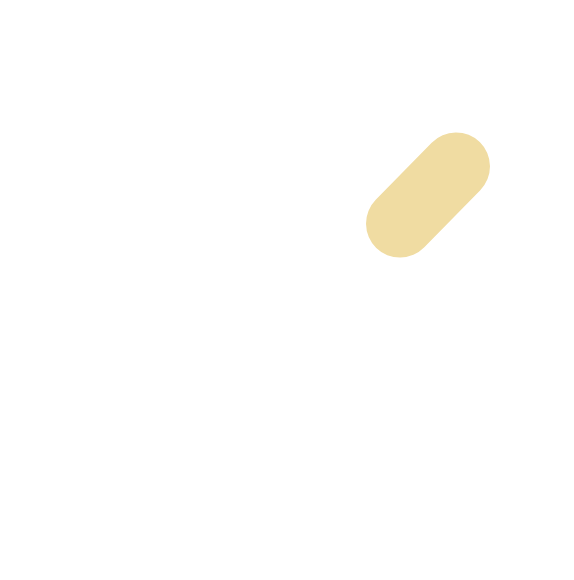
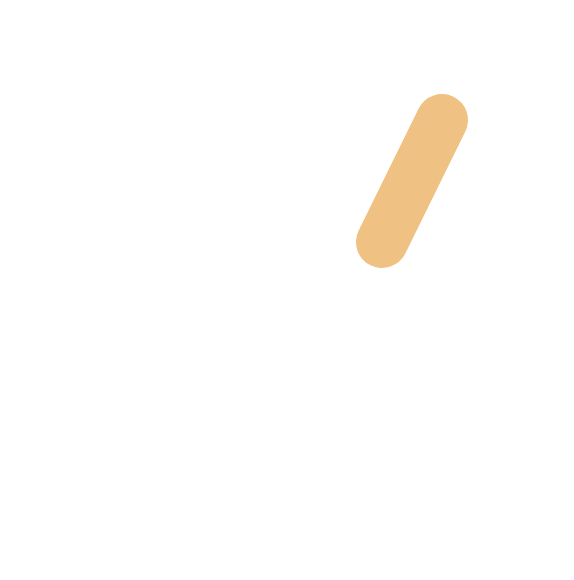
Инструкция по развёртыванию на Beget и слои питомца ближе к фотографиям
Добавлен DEPLOY-BEGET.md: в репозитории три разные вещи, и разворачиваются
они по-разному. CRM — статика, собирается локально и заливается папкой.
Place — PHP с SQLite, работает на виртуальном хостинге. Сервис выгрузки
Qtickets на Beget не поднимется в принципе: это Docker-контейнер с
постоянным процессом, а не короткий PHP-запрос, и это ограничение тарифа,
а не вопрос настройки.

Отдельно разобран самый частый способ получить белый экран: без VITE_BASE
проект собирается с префиксом /dabudi/ под GitHub Pages, и на своём домене
все ассеты уезжают по несуществующему адресу. Оба варианта размещения
проверены сборкой, пути в готовом index.html сверены.

Слои питомца перерисованы ближе к фотографиям игрушки: висячие уши,
крупные тёмно-коричневые глаза с бликом, светлая морда без резкого белого
пятна, белый кружевной воротник на шее, кремовое туловище и лапки.
Опорные точки не менялись, поэтому риг и углы поз остались прежними.
Слои по-прежнему временные — настоящие вырезки кладутся поверх.

Claude-Session: https://claude.ai/code/session_01MLzbLua3G2rsxTLjAo4L2R

Changed region(s): [[0.622, 0.1552, 0.8589, 0.4655]]

diff --git a/DEPLOY-BEGET.md b/DEPLOY-BEGET.md
@@ -1,0 +1,243 @@
+# Развёртывание на Beget — от нуля до работающего сайта
+
+В репозитории лежат **два независимых приложения** и **один сервис**. Разворачивать
+их надо по-разному, и одно из трёх на Beget вообще не поднимется. Сначала
+определитесь, что именно вам нужно.
+
+| Что | Где в репозитории | Что нужно серверу | Beget |
+|---|---|---|---|
+| **Репетитор — CRM** (PWA для телефона) | `src/`, собирается в `dist/` | ничего, чистая статика | да |
+| **Place** (рабочие проекты, вход по логину) | `place/` | PHP 7.4+ с `pdo_sqlite` и `curl` | да |
+| **Qtickets → Google Sheets** | `place/integrations/qtickets/` | Docker, постоянный процесс | **нет** |
+
+Про Qtickets — отдельно в самом конце: на виртуальном хостинге он не работает
+в принципе, и это не настройка, а ограничение тарифа.
+
+---
+
+## Шаг 0. Что понадобится
+
+1. Beget, тариф «Виртуальный хостинг» (подойдёт младший).
+2. В панели у сайта выбрана версия **PHP 8.x**.
+3. Node.js 18+ **на вашем компьютере** — CRM собирается локально, на хостинг
+   уезжает уже готовая папка. На Beget ничего собирать не нужно.
+
+Проверить расширения PHP можно позже через самодиагностику Place (шаг 3).
+
+---
+
+## Шаг 1. Решите, что где лежит
+
+Один домен — одна корневая папка `public_html`. Варианта два.
+
+**Вариант А (рекомендую): Place в корне, CRM в подпапке.**
+
+```
+public_html/
+├── index.html          ← Place
+├── api.php
+├── config.php
+├── cron_wordstat.php
+├── cron_backup.php
+└── crm/                ← Репетитор — CRM
+    ├── index.html
+    ├── assets/
+    └── ...
+```
+
+Адреса: `https://ваш-сайт/` — Place, `https://ваш-сайт/crm/` — CRM.
+
+**Вариант Б: CRM в корне, Place в подпапке.**
+
+```
+public_html/
+├── index.html          ← CRM
+├── assets/
+└── place/              ← Place
+    ├── index.html
+    ├── api.php
+    └── ...
+```
+
+Адреса: `https://ваш-сайт/` — CRM, `https://ваш-сайт/place/` — Place.
+
+Дальше в примерах используется **вариант А**. Для варианта Б поменяйте только
+путь сборки на шаге 2 и папку загрузки Place.
+
+---
+
+## Шаг 2. Собрать CRM у себя на компьютере
+
+Ключевой момент: **обязательно задайте `VITE_BASE`**. По умолчанию проект
+собирается под GitHub Pages с префиксом `/dabudi/`, и на вашем домене все стили
+и скрипты будут искаться по несуществующему адресу — получите белый экран.
+
+```bash
+npm install
+
+# Вариант А — CRM лежит в подпапке /crm/:
+VITE_BASE=/crm/ npm run build
+
+# Вариант Б — CRM в корне домена:
+VITE_BASE=/ npm run build
+```
+
+Проверьте, что подставилось правильно:
+
+```bash
+grep -o 'src="[^"]*"' dist/index.html
+# должно быть /crm/assets/... или /assets/... — но не /dabudi/
+```
+
+Загружать нужно **содержимое папки `dist/`**, а не саму папку. То есть
+`dist/index.html` должен оказаться как `public_html/crm/index.html`.
+
+---
+
+## Шаг 3. Развернуть Place
+
+Подробная пошаговая инструкция со скриншотами панели — в
+[`place/install-beget.md`](place/install-beget.md). Здесь только суть.
+
+1. Загрузите в `public_html` пять файлов из папки `place/`:
+   `index.html`, `api.php`, `config.sample.php`, `cron_wordstat.php`, `cron_backup.php`.
+
+2. Скопируйте `config.sample.php` и переименуйте копию в **`config.php`**
+   (шаблон оставьте на месте). Правим всегда копию: сам шаблон лежит в открытом
+   репозитории, секретам там не место.
+
+3. Откройте `config.php` и заполните два обязательных поля:
+
+   ```php
+   define('INITIAL_ADMIN_PASS', 'ваш-пароль');          // минимум 6 символов
+   define('CRON_KEY', 'случайная-строка-от-20-символов'); // обязательно!
+   ```
+
+   Пока стоят заглушки, система намеренно не запустится, а задания по ссылке
+   и самодиагностика закрыты. Сгенерировать ключ: `openssl rand -hex 20`.
+
+4. Проверьте установку, подставив свой `CRON_KEY`:
+
+   ```
+   https://ваш-сайт/api.php?action=selftest&key=ВАШ_CRON_KEY
+   ```
+
+   Ждём `"итог": "ВСЁ ГОТОВО К РАБОТЕ ✓"`. Если какая-то строка `ok:false` — там
+   же написано, что чинить. Без ключа страница отвечает 403: она показывает пути
+   на сервере и число аккаунтов, открытой её оставлять нельзя.
+
+5. Войдите на `https://ваш-сайт/` под логином `admin` и паролем из шага 3.
+   Остальные аккаунты создаёте сами: меню профиля → «Пользователи».
+
+### Где живёт база
+
+Place сам создаст папку `place-data` **рядом с `public_html`**, то есть на уровень
+выше — из интернета она недоступна. Это правильное поведение, ничего делать не
+нужно. Если хостинг не даст туда писать, Place создаст папку внутри сайта и
+закроет её через `.htaccess` — селфтест об этом честно напишет.
+
+**Не удаляйте `place-data`** — там вся база.
+
+---
+
+## Шаг 4. HTTPS — обязательно
+
+Панель Beget → раздел **SSL** → бесплатный сертификат Let's Encrypt.
+
+Это не «желательно», а необходимое условие:
+
+- **CRM не установится на телефон** без HTTPS. Service worker, офлайн-режим и
+  иконка на экране «Домой» работают только на защищённом соединении.
+- Place без HTTPS передаёт пароли открытым текстом.
+
+После включения сертификата поставьте в панели редирект с `http://` на `https://`.
+
+---
+
+## Шаг 5. Два задания в CronTab (только для Place)
+
+Панель → **CronTab**. Тип задания «PHP-скрипт»:
+
+```
+03:10  /home/ВАШ_ЛОГИН/ПАПКА_САЙТА/public_html/cron_wordstat.php
+03:40  /home/ВАШ_ЛОГИН/ПАПКА_САЙТА/public_html/cron_backup.php
+```
+
+Точный путь виден в файловом менеджере в адресной строке.
+
+Если удобнее «по ссылке» (тип wget/URL) — ключ обязателен:
+
+```
+https://ваш-сайт/cron_wordstat.php?key=ВАШ_CRON_KEY
+https://ваш-сайт/cron_backup.php?key=ВАШ_CRON_KEY
+```
+
+Проверка: откройте ссылку бэкапа — в ответе `"ok":1`, а в `place-data/backups`
+появится файл `place-ДАТА.db`. Хранятся 30 последних копий.
+
+---
+
+## Шаг 6. Финальная проверка
+
+- [ ] `https://ваш-сайт/` открывает Place, вход работает
+- [ ] `https://ваш-сайт/crm/` открывает CRM, видны демо-ученики
+- [ ] Замок в адресной строке, `http://` редиректит на `https://`
+- [ ] `api.php?action=selftest&key=...` → «ВСЁ ГОТОВО К РАБОТЕ ✓»
+- [ ] На iPhone: Safari → «Поделиться» → «На экран „Домой“» ставит иконку CRM
+- [ ] Ссылка cron с ключом отвечает `"ok":1`
+
+---
+
+## Подводные камни
+
+**Белый экран у CRM.** В 9 случаях из 10 забыли `VITE_BASE` при сборке. Откройте
+консоль браузера: если запросы уходят на `/dabudi/assets/...` — пересоберите с
+правильным префиксом.
+
+**CRM показывает старую версию после обновления.** Виноват service worker: он
+кэширует приложение для офлайна. Пользователю нужно закрыть все вкладки сайта и
+открыть заново; на iPhone — удалить иконку с экрана «Домой» и добавить снова.
+Само обновление приезжает автоматически, но со следующего запуска.
+
+**Данные CRM живут в браузере.** Это не ошибка, а устройство приложения:
+ученики, занятия и оплаты хранятся в `localStorage` телефона и на сервер не
+уходят. Отсюда два следствия: на другом устройстве будет пусто, и при очистке
+данных браузера всё пропадёт. Резервная копия — «Настройки → Экспорт» в самом
+приложении. Добавление на экран «Домой» на iOS дополнительно защищает хранилище
+от автоочистки.
+
+**Место на диске.** Place хранит базу и до 30 бэкапов. При активной работе с
+картинками база растёт; следите за квотой тарифа.
+
+**Кириллица в путях.** Не создавайте папки с русскими именами — часть утилит
+Beget и PHP-функций работы с файлами на них спотыкается.
+
+**Отдельная от GitHub Pages история.** Workflow `.github/workflows/deploy.yml`
+публикует CRM на GitHub Pages и к Beget отношения не имеет. На Beget заливка
+ручная (файловый менеджер или FTP), либо настраивайте деплой отдельно.
+
+---
+
+## Qtickets → Google Sheets: почему не на Beget
+
+Сервис выгрузки — это Python-приложение на FastAPI в Docker-контейнере, которое
+держит фоновые задачи и постоянно работающий процесс. Виртуальный хостинг Beget
+такого не умеет: там выполняются только короткие PHP-запросы, контейнеры и
+демоны не поддерживаются. Это ограничение тарифа, а не вопрос настройки.
+
+Варианты:
+
+1. **Google Cloud Run** — как задумано, инструкция в
+   [`place/integrations/qtickets/README.md`](place/integrations/qtickets/README.md).
+   Для такой нагрузки укладывается в бесплатный лимит.
+2. **Любой VPS** с Docker — тот же `Dockerfile`.
+3. **Не разворачивать.** Оставьте `QT_URL` и `QT_KEY` в `config.php` пустыми:
+   кнопка «Qtickets» в меню помощника честно скажет, что интеграция не
+   настроена, остальное приложение работает как обычно.
+
+Когда сервис поднят, пропишите в `config.php`:
+
+```php
+define('QT_URL', 'https://qtickets-sync-xxxx.run.app');   // без /run на конце
+define('QT_KEY', 'тот-же-секрет-что-RUN_KEY-в-сервисе');
+```
